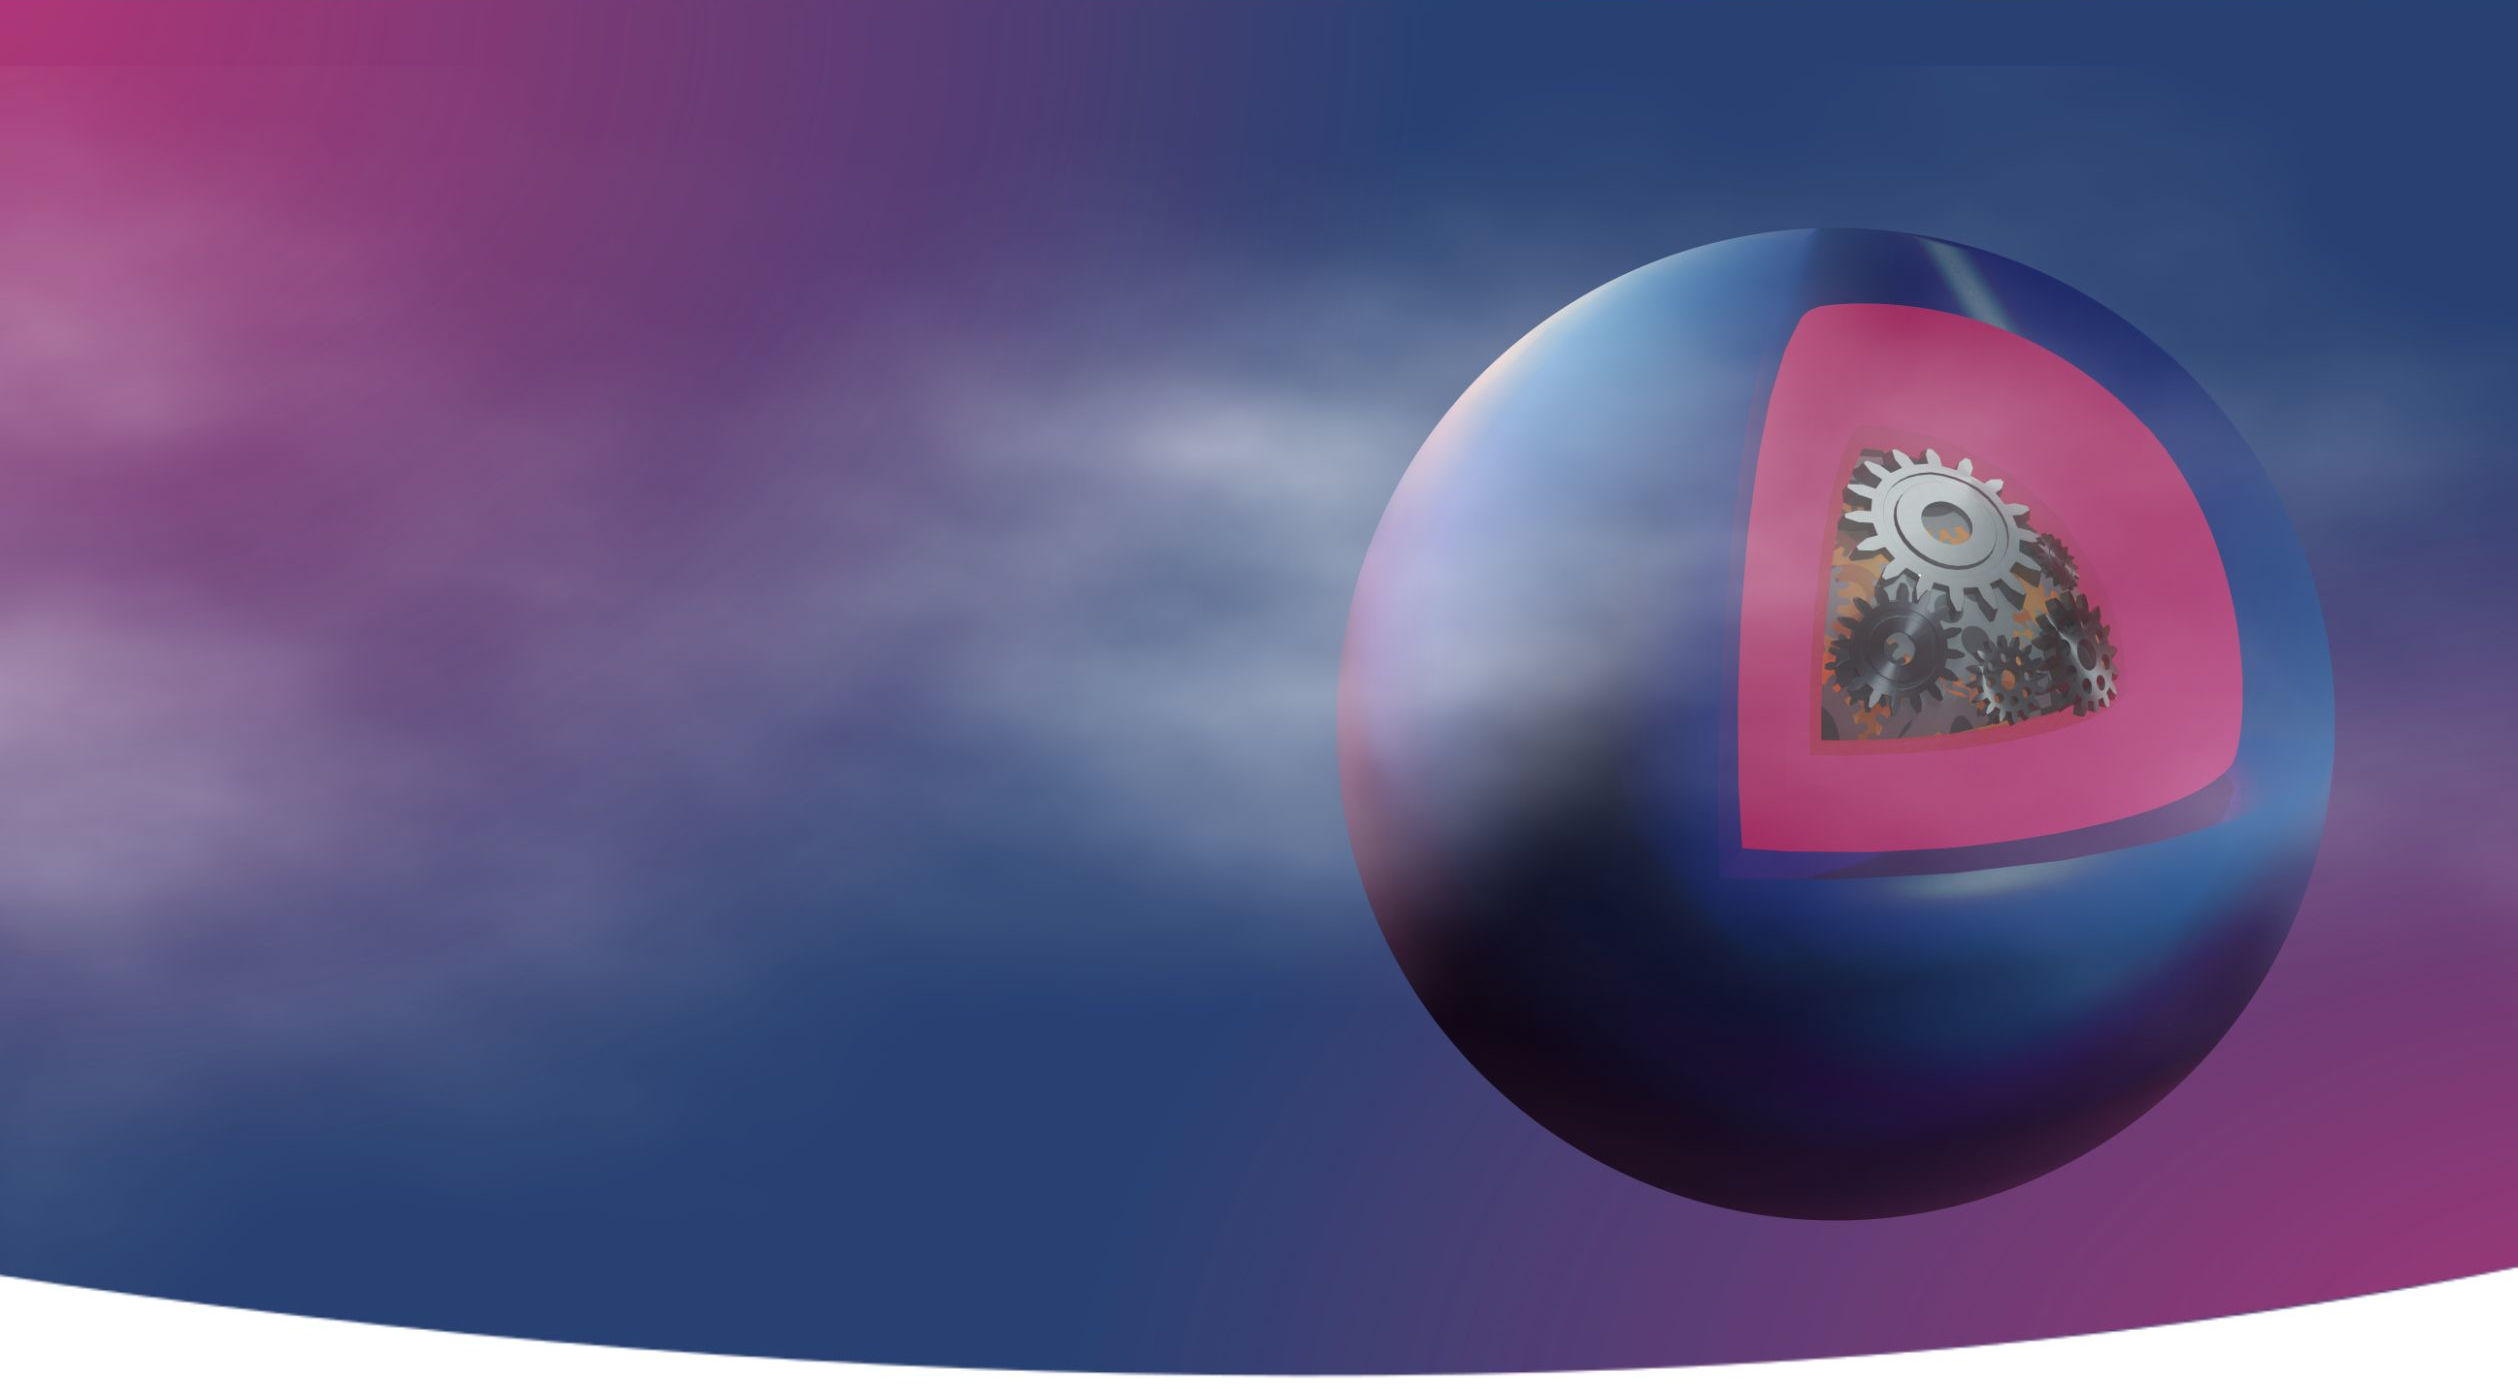
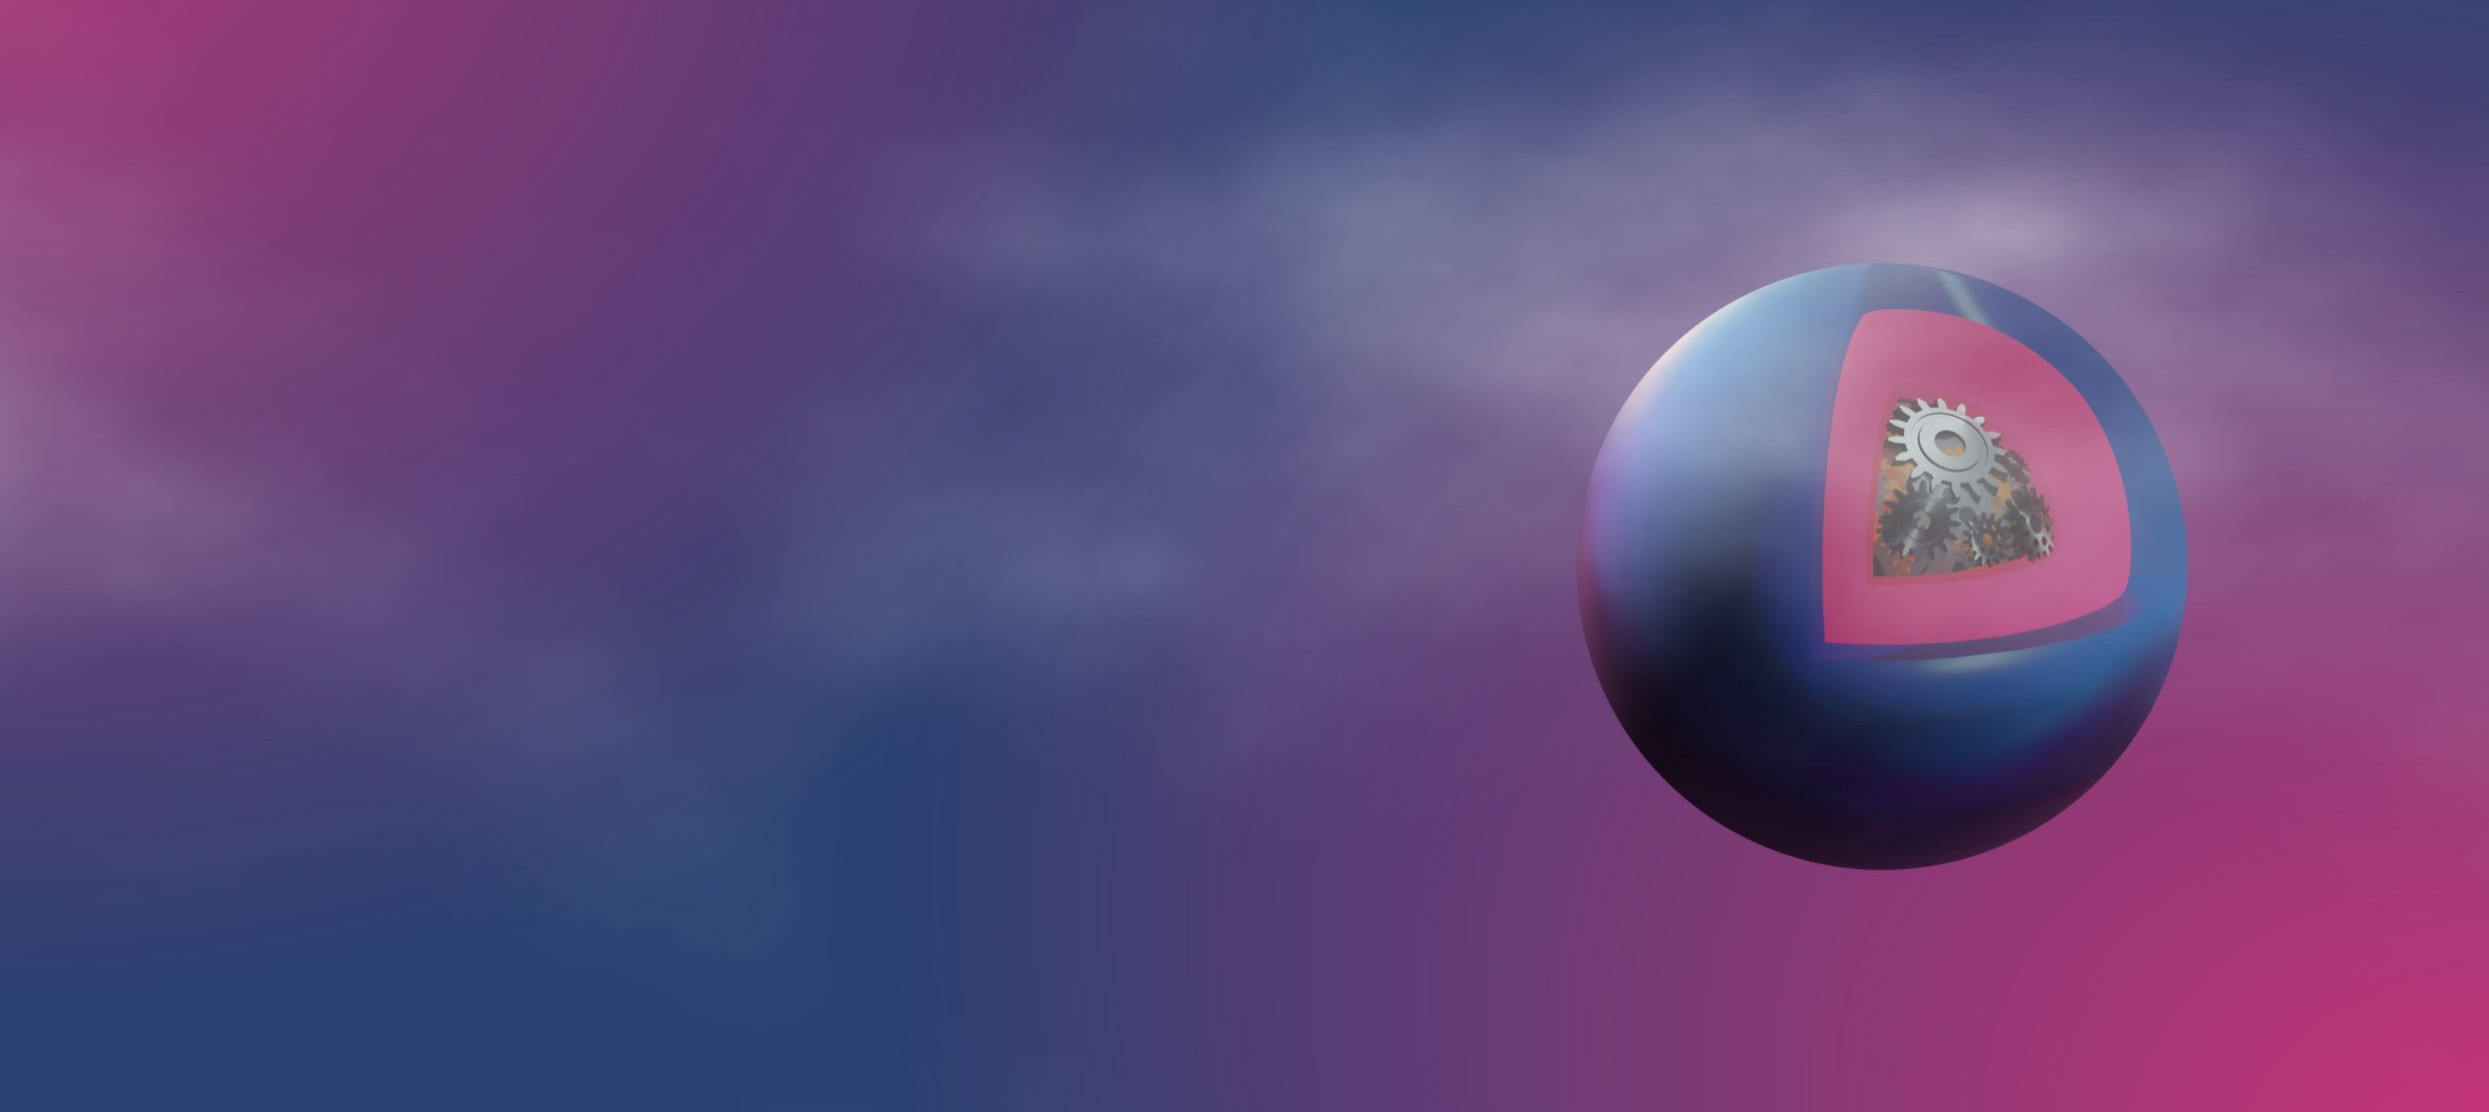
coreos: update hero to match design

diff --git a/pages/coreos/index.vue b/pages/coreos/index.vue
@@ -7,8 +7,8 @@ useContentHead(data);
   <!-- Hero Section -->
   <FpHero
     :background="data.header_images[1].image"
-    alignment="bg-top"
-    class="relative z-0"
+    alignment="bg-right md:bg-top"
+    class="coreos-hero relative z-0"
   >
     <TheLocalBar
       image="assets/images/fedora-coreos-logo.png"
@@ -28,7 +28,6 @@ useContentHead(data);
       :ctas="data.links"
       icon="youtube"
     >
-      <FpImage :src="data.header_images[0].image" />
     </FpBanner>
     <svg
       viewBox="0 0 1918.6658 172.80759"
@@ -90,3 +89,15 @@ useContentHead(data);
     <FpCallToAction :cta="data.links" image="assets/images/coreos_logo.png" />
   </section>
 </template>
+<style>
+.coreos-hero .fp-banner {
+  @apply pt-16 pb-28 text-center md:text-left lg:pt-32 lg:pb-72 xl:px-0;
+}
+
+.coreos-hero .fp-banner h1 {
+  @apply text-4xl font-medium lg:text-6xl;
+}
+.coreos-hero .fp-banner h2 {
+  @apply pt-6 text-lg lg:text-2xl;
+}
+</style>

diff --git a/components/partials/FpBanner.vue b/components/partials/FpBanner.vue
@@ -16,7 +16,9 @@ defineProps({
 });
 </script>
 <template>
-  <div class="mx-auto mt-16 max-w-7xl px-4 text-center sm:mt-24 sm:px-6">
+  <div
+    class="fp-banner mx-auto mt-16 max-w-7xl px-4 text-center sm:mt-24 sm:px-6"
+  >
     <div class="mx-auto max-w-sm sm:max-w-xl">
       <FpImage v-if="logo" class="z-10" :src="logo" :alt="$t('logo')" />
     </div>
